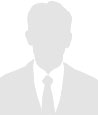
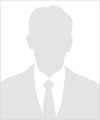
done #20

diff --git a/css/common.css b/css/common.css
@@ -1014,12 +1014,21 @@ a { text-decoration: none; }
 .profile .profile-item > li { float: left; width: 25%; max-height: 376px; font: 13px "Malgun Gothic"; text-align: center; border-bottom: 1px solid #dfdfdf; border-left: 1px solid #dfdfdf; padding: 30px 23px 30px 23px; box-sizing: border-box; }
 .profile .profile-item > li span { display: block; }
 .profile .profile-item > li .sort { background: url("../images/bg/bg_bottom_red.png") no-repeat 50% 100%; color: #b38f6b; font: 13px/20px "Malgun Gothic"; margin-bottom: 20px; padding-bottom: 11px; }
-.profile .profile-item > li a { text-decoration: none; }
-.profile .profile-item > li a .thumbnail { position: relative; width: 100px; height: 120px; margin: 0 auto; }
-.profile .profile-item > li a .thumbnail:before { content: ''; position: absolute; background: url("../images/thumbnail/profile1_empty.jpg") no-repeat 0% 0%; top: 5px; width: 100px; height: 120px; left: 0; z-index: -1; }
-.profile .profile-item > li a .thumbnail img { width: 100%; height: 100%; }
+.profile .profile-item > li a { text-decoration: none; position: relative; }
+.profile .profile-item > li a .thumbnail { position: relative; width: 100px; height: 120px; margin: 0 auto; /*&:before {
+	content: '';
+	position: absolute;
+	background: url($stm_img + 'thumbnail/profile1_empty.jpg') no-repeat 0% 0%;
+	top: 5px;
+	width: 100px;
+	height: 120px;
+	left: 0;
+	z-index: -1;
+}*/ }
+.profile .profile-item > li a .thumbnail img { width: 100%; height: 100%; border: 1px solid #ebebeb; }
 .profile .profile-item > li a .name { font: 17px/24px "Malgun Gothic"; color: #000; margin: 10px; }
 .profile .profile-item > li a:hover { text-decoration: underline; }
+.profile .profile-item > li a:hover .thumbnail:before { content: ''; position: absolute; background: url(../images/thumbnail/profile-hover.png) no-repeat 0 0; width: 100px; height: 120px; z-index: 3; right: 0; left: 0; top: 0; bottom: 0; border: 1px solid #ebebeb; }
 .profile .profile-item > li .description, .profile .profile-item > li .position { color: #a8a8a8; }
 .profile .profile-item > li:nth-child(1) { border-top: 1px solid #dfdfdf; }
 .profile .profile-item > li + .profile .profile-item > li:nth-child(1), .profile .profile-item > li:nth-child(2), .profile .profile-item > li:nth-child(3), .profile .profile-item > li:nth-child(4) { border-top: 1px solid #dfdfdf; }

diff --git a/css/_common_front_board_list_form_profile.scss b/css/_common_front_board_list_form_profile.scss
@@ -27,12 +27,13 @@ $stm_img: '../images/';
 				}
 				a{
 					text-decoration: none;
+					position: relative;
 					.thumbnail {
 						position: relative;
 						width: 100px;
 						height: 120px;
 						margin: 0 auto;
-						&:before {
+						/*&:before {
 							content: '';
 							position: absolute;
 							background: url($stm_img + 'thumbnail/profile1_empty.jpg') no-repeat 0% 0%;
@@ -41,10 +42,11 @@ $stm_img: '../images/';
 							height: 120px;
 							left: 0;
 							z-index: -1;
-						}
+						}*/
 						img {
 							width: 100%;
 							height: 100%;
+							border: 1px solid #ebebeb;
 						}
 					}
 					.name {
@@ -54,6 +56,21 @@ $stm_img: '../images/';
 					}
 					&:hover {
 						text-decoration: underline;
+						.thumbnail {
+							&:before {
+							    content: '';
+							    position: absolute;
+							    background: url(../images/thumbnail/profile-hover.png) no-repeat 0 0;
+							    width: 100px;
+							    height: 120px;
+							    z-index: 3;
+							    right: 0;
+							    left: 0;
+							    top: 0;
+							    bottom: 0;
+							    border: 1px solid #ebebeb;
+							}
+						}
 					}
 				}
 				.description, .position {

diff --git a/html/common_front_board_list_form_profile1_external_person.html b/html/common_front_board_list_form_profile1_external_person.html
@@ -72,7 +72,9 @@
                     <li>
                         <span class="sort">다다다다다다다다다다다다다다다다다다다다</span>
                         <a href="#">
-                            <span class="thumbnail"></span>
+                            <span class="thumbnail">
+                                <img src="../images/thumbnail/profile1_empty.jpg" alt=""/>
+                            </span>
                             <span class="name">다다다다다다다다다다다다다다다</span>
                         </a>
                         <span class="description">다다다다다다다다다다다다다다다다다다다다</span>
